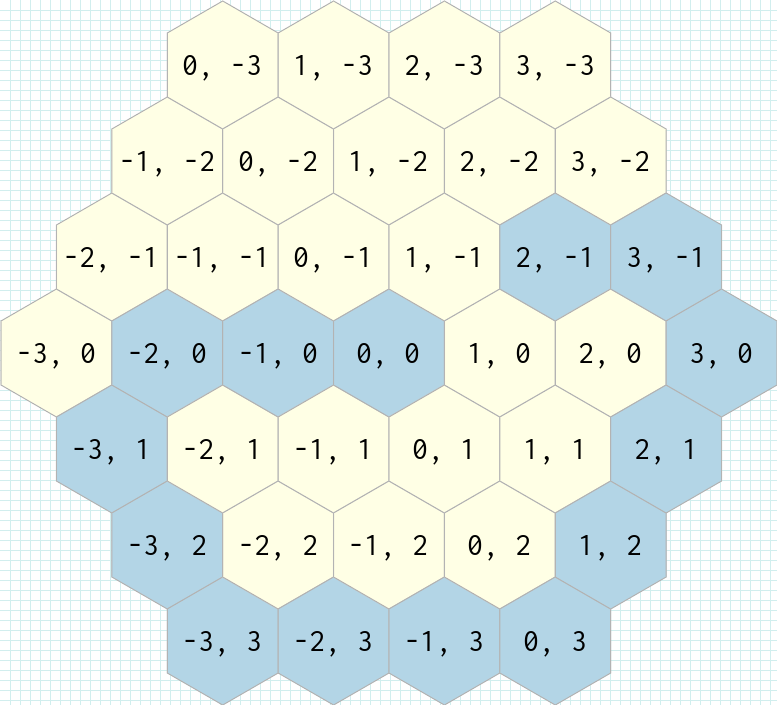
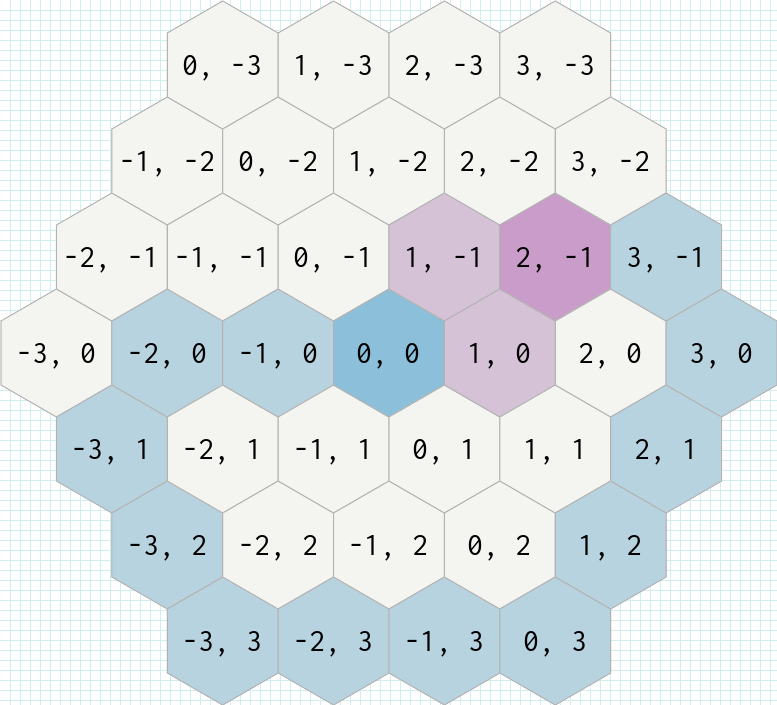
update specs

Changed region(s): [[0.4324, 0.2809, 0.8031, 0.5929]]

diff --git a/lib/rhex/dfs_path.rb b/lib/rhex/dfs_path.rb
@@ -16,14 +16,14 @@ module Rhex
       raise GridDoesNotContainSourceError unless grid.include?(source)
       raise GridDoesNotContainTargetError unless grid.include?(target)
 
-      return decorate_path([source]) if source == target
+      return decorate_path([source], source, target) if source == target
 
       visited = { [source.q, source.r] => true }
       stack = [[source, [source]]]
 
       until stack.empty?
         current, path = stack.pop
-        return decorate_path(path) if current == target
+        return decorate_path(path, source, target) if current == target
 
         ordered_neighbors(current, target).each do |neighbor|
           key = [neighbor.q, neighbor.r]
@@ -66,13 +66,20 @@ module Rhex
       end
     end
 
-    def decorate_path(path)
+    def decorate_path(path, source, target)
       path.map do |hex|
-        Rhex::AxialHex.new(
-          hex.q,
-          hex.r,
-          image_config: safe_path_image_config
-        )
+        case hex
+        when source
+          source
+        when target
+          target
+        else
+          Rhex::AxialHex.new(
+            hex.q,
+            hex.r,
+            image_config: safe_path_image_config
+          )
+        end
       end
     end
 

diff --git a/spec/lib/rhex/dfs_path_spec.rb b/spec/lib/rhex/dfs_path_spec.rb
@@ -21,15 +21,24 @@ RSpec.describe(Rhex::DfsPath) do
     end
 
     context "when obstacles are defined" do
+      before do
+        image_configs_path = Rhex.root.join("spec", "fixtures", "image_configs")
+        Rhex::ImageConfigs.load!(image_configs_path)
+      end
+
       it "avoids obstacles" do
         grid = grid(3)
         source = Rhex::AxialHex.new(0, 0)
         target = Rhex::AxialHex.new(2, -1)
-        obstacles = coords_to_hexes([[1, 0], [1, -1]])
+        obstacles = coords_to_hexes([[1, 0], [1, -1]], image_config: Rhex::ImageConfigs.obstacle_image_config)
 
         path = described_class.new(grid, obstacles: obstacles).call(source, target)
 
+        source.image_config = Rhex::ImageConfigs.source_image_config
+        target.image_config = Rhex::ImageConfigs.target_image_config
+
         grid.merge(obstacles)
+          .merge([source, target])
           .merge(path)
           .to_pic("dfs_path", orientation: :pointy_topped)
 

diff --git a/spec/lib/rhex/bfs_path_spec.rb b/spec/lib/rhex/bfs_path_spec.rb
@@ -44,6 +44,9 @@ RSpec.describe(Rhex::BfsPath) do
 
         shortest_path = described_class.new(grid, obstacles: obstacles).call(source, target)
 
+        source.image_config = Rhex::ImageConfigs.source_image_config
+        target.image_config = Rhex::ImageConfigs.target_image_config
+
         expected_shortest_path =
           coords_to_hexes([
             [1, 1], [1, 0], [0, 0], [0, -1], [1, -2], [2, -2], [3, -2], [3, -1], [3, 0],
@@ -52,6 +55,7 @@ RSpec.describe(Rhex::BfsPath) do
 
         grid.merge(obstacles)
           .merge(expected_shortest_path)
+          .merge([source, target])
           .to_pic("bfs_path", orientation: :pointy_topped)
 
         expect(shortest_path.first).to(eq(source))

diff --git a/spec/lib/rhex/cube_hex_spec.rb b/spec/lib/rhex/cube_hex_spec.rb
@@ -120,6 +120,7 @@ RSpec.describe(Rhex::CubeHex) do
   describe "#reachable" do
     it "shows reachable hexes" do
       source = Rhex::AxialHex.new(0, 0)
+      source.image_config = Rhex::ImageConfigs.source_image_config
       obstacles = coords_to_hexes([
         [1, -1], [2, -1], [2, 0], [2, 1], [1, 2], [0, 2],
         [-1, 2], [-1, 1], [-2, 1], [-1, -1], [0, -2], [1, -3],
@@ -132,6 +133,7 @@ RSpec.describe(Rhex::CubeHex) do
       obstacles
         .to_grid
         .merge(expected_reachable + [])
+        .merge([source])
         .to_pic("reachable", orientation: Rhex::GridToPic::POINTY_TOPPED)
 
       expect(source.reachable(3, obstacles: obstacles)).to(contain_exactly(*expected_reachable))

diff --git a/spec/lib/rhex/image_configs_spec.rb b/spec/lib/rhex/image_configs_spec.rb
@@ -10,7 +10,7 @@ RSpec.describe(Rhex::ImageConfigs) do
       described_class.load!(image_configs_path)
 
       expect(described_class).to(respond_to(:obstacle_image_config, :path_image_config, :source_image_config))
-      expect(described_class.path_image_config.hexagon.color).to(eq("#B3D5E6"))
+      expect(described_class.path_image_config.hexagon.color).to(eq("#B8D3E0"))
     end
   end
 end

diff --git a/lib/rhex/draw/hexagon.rb b/lib/rhex/draw/hexagon.rb
@@ -12,7 +12,7 @@ module Rhex
 
       DEFAULT_IMAGE_CONFIG = ImageConfig.new(
         hexagon: ImageProperties.new(
-          color: "#FFFFE5",
+          color: "#F4F4F1",
           stroke_color: "#B3B3B3"
         ),
         text: ImageProperties.new(
